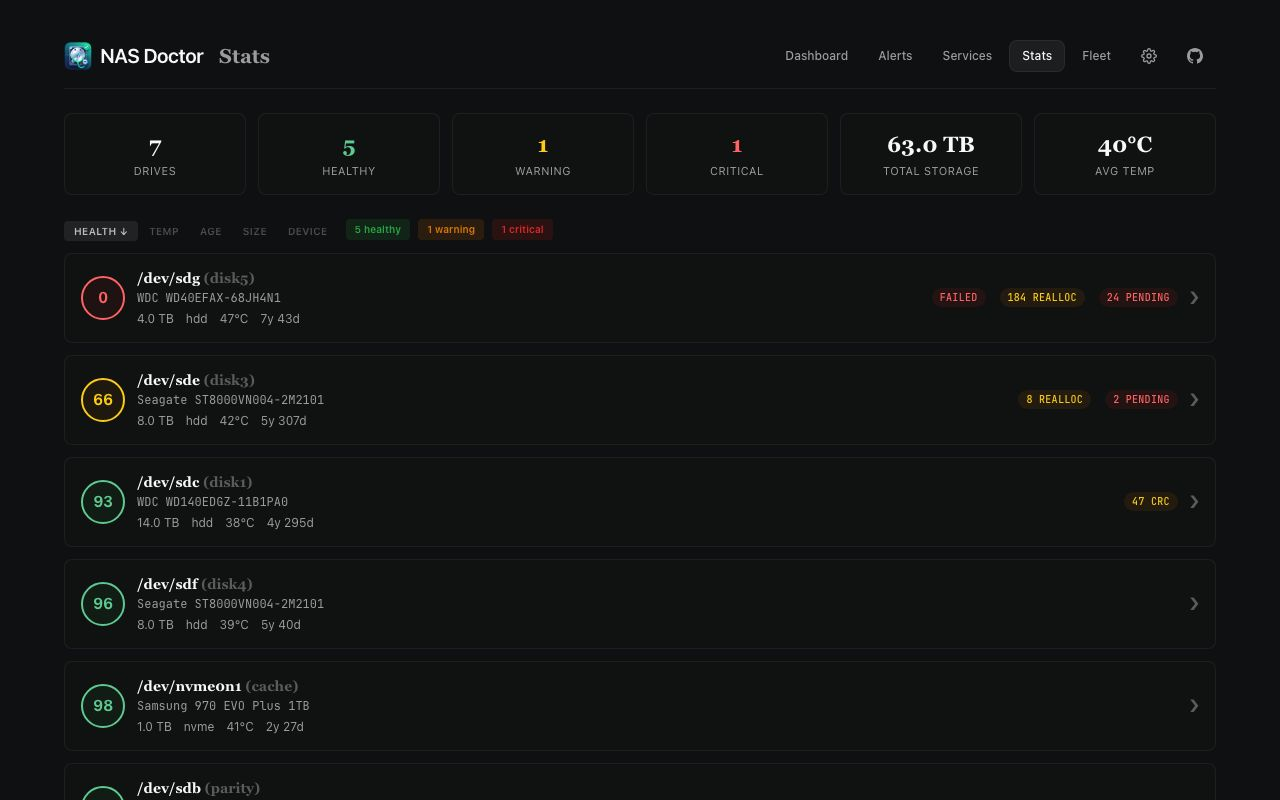
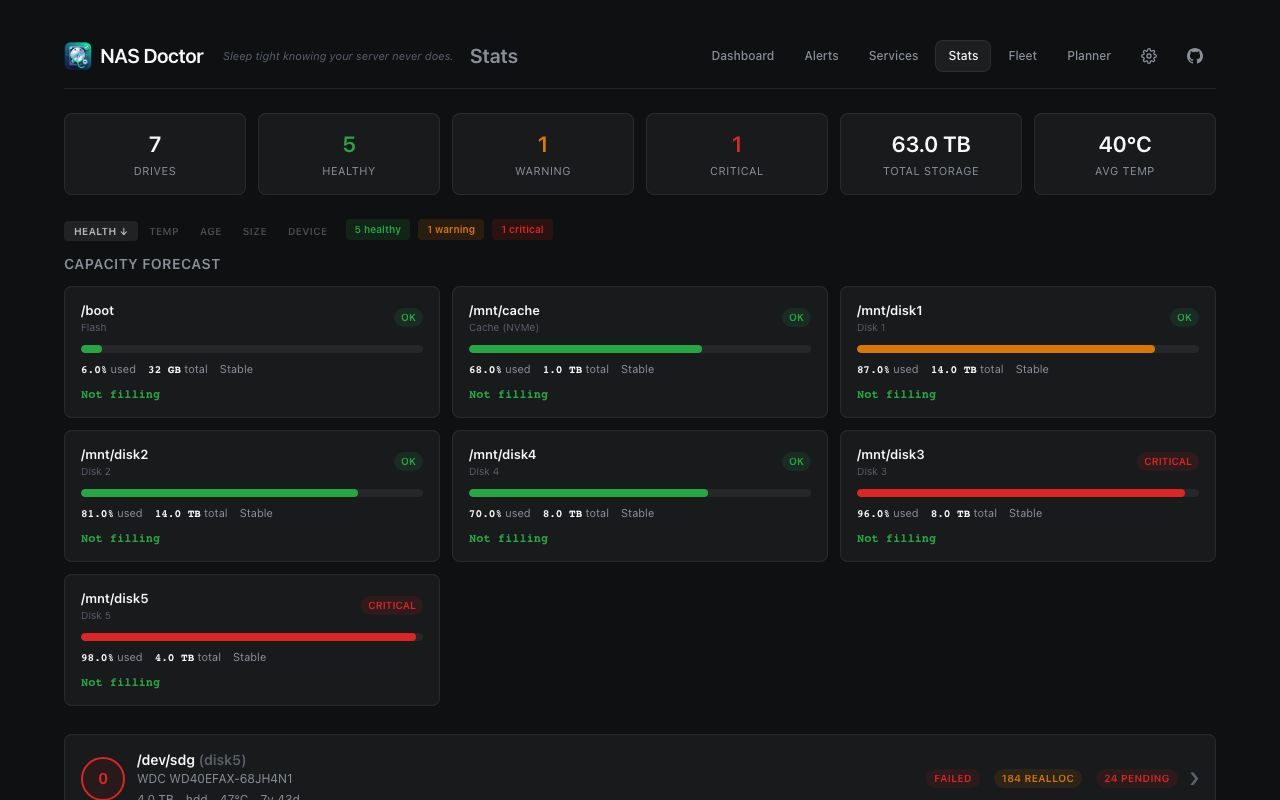
docs: remove themes section, all screenshots midnight, delete stale branches
- Removed Themes section from README (not a headline feature)
- Deleted clean-top.jpg and ember-top.jpg screenshots
- Recaptured all 7 screenshots using midnight theme consistently
- Deleted merged dev/new-features branch (local + remote)
- Only main branch remains

diff --git a/README.md b/README.md
@@ -369,37 +369,17 @@ go build -o nas-doctor ./cmd/nas-doctor
 
 ---
 
-## Themes
-
-NAS Doctor ships with 3 dashboard themes. Switch between them from Settings.
-
-| Theme | Description |
-|---|---|
-| **Midnight** (default) | Ultra-dark precision dashboard |
-| **Clean** | White, minimal gallery space |
-| **Ember** | macOS-native depth, serif typography, micro-animations |
-
 <p>
-  <img src="screenshots/midnight-top.jpg" alt="Midnight" width="380">
-  <img src="screenshots/clean-top.jpg" alt="Clean" width="380">
+  <img src="screenshots/service-checks-page.jpg" alt="Service Checks" width="380">
+  <img src="screenshots/alerts-page.jpg" alt="Alerts" width="380">
 </p>
 <p>
-  <img src="screenshots/ember-top.jpg" alt="Ember" width="380">
-</p>
-
-### More Pages
-
-<p>
-  <img src="screenshots/service-checks-page.jpg" alt="Service Checks Page" width="380">
-  <img src="screenshots/alerts-page.jpg" alt="Alerts Page" width="380">
+  <img src="screenshots/fleet-page.jpg" alt="Fleet" width="380">
+  <img src="screenshots/stats-page.jpg" alt="Stats" width="380">
 </p>
 <p>
-  <img src="screenshots/fleet-page.jpg" alt="Fleet Topology" width="380">
-  <img src="screenshots/parity-page.jpg" alt="Parity History" width="380">
-</p>
-<p>
-  <img src="screenshots/stats-page.jpg" alt="Stats Page" width="380">
-  <img src="screenshots/settings-page.jpg" alt="Settings Page" width="380">
+  <img src="screenshots/settings-page.jpg" alt="Settings" width="380">
+  <img src="screenshots/parity-page.jpg" alt="Parity" width="380">
 </p>
 
 ---
